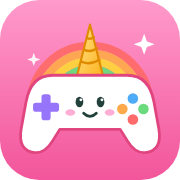
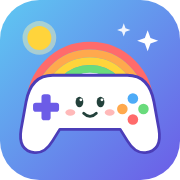
rebrand

diff --git a/styles.css b/styles.css
@@ -2,9 +2,9 @@
   :root{
     color-scheme: light;
     --sky:#CDEBF5;
-    --sky2:#F7DDEB;
+    --sky2:#FFF2D2;
     --hedge:#2E6E61;
-    --pink:#F2559B;
+    --accent:#6C5CE7;
     --gold:#FFC23D;
     --ink:#23413B;
     --card:#FFFFFF;
@@ -29,7 +29,7 @@
   .brand{
     font-family:"Chewy","Comic Sans MS",cursive;font-weight:400;
     font-size:clamp(44px,10vw,80px);line-height:1;margin:8px 0 0;
-    color:var(--pink);text-shadow:3px 3px 0 #fff;text-wrap:balance;
+    color:var(--accent);text-shadow:3px 3px 0 #fff;text-wrap:balance;
   }
   .tag{margin:0;font-size:clamp(16px,3.5vw,20px);font-weight:800;color:var(--muted)}
   main{display:flex;flex-direction:column;gap:18px}
@@ -42,7 +42,7 @@
     transition:transform .12s ease;
   }
   .filters a:hover{transform:translateY(-2px)}
-  .filters a[aria-current="page"]{background:var(--pink);color:#fff;box-shadow:0 6px 16px #F2559B55}
+  .filters a[aria-current="page"]{background:var(--accent);color:#fff;box-shadow:0 6px 16px #6C5CE755}
   .filters a:focus-visible{outline:3px solid var(--gold);outline-offset:2px}
   .filters .count{font-size:13px;background:#0000000F;border-radius:999px;padding:1px 8px}
   .filters a[aria-current="page"] .count{background:#FFFFFF33}
@@ -90,7 +90,7 @@
   .chip{font-size:12px;font-weight:800;letter-spacing:.04em;text-transform:uppercase;padding:4px 10px;border-radius:999px;background:#EAF7EC;color:var(--ink)}
   .controls{font-size:13px!important;font-weight:700}
   .play{
-    margin-top:auto;align-self:flex-start;background:var(--pink);color:#fff;font-weight:800;
+    margin-top:auto;align-self:flex-start;background:var(--accent);color:#fff;font-weight:800;
     font-size:18px;padding:10px 22px;border-radius:14px;
   }
   .soon{background:transparent;border:3px dashed #2E6E6155;box-shadow:none}
@@ -99,9 +99,9 @@
     position:absolute;right:18px;bottom:18px;z-index:2;
     display:inline-flex;align-items:center;gap:6px;min-height:44px;
     font:inherit;font-weight:800;font-size:16px;cursor:pointer;
-    color:var(--ink);background:#fff;border:3px solid #F2559B33;border-radius:14px;padding:6px 14px;
+    color:var(--ink);background:#fff;border:3px solid #6C5CE733;border-radius:14px;padding:6px 14px;
   }
-  .share:hover{background:#FDE2EC;border-color:#F2559B66}
+  .share:hover{background:#ECE9FD;border-color:#6C5CE766}
   .share:focus-visible{outline:4px solid var(--gold);outline-offset:2px}
   .share-menu{
     position:absolute;right:14px;bottom:72px;z-index:5;min-width:190px;
@@ -112,14 +112,14 @@
     font:inherit;font-weight:800;font-size:16px;color:var(--ink);text-decoration:none;text-align:left;
     background:none;border:0;border-radius:10px;padding:10px 12px;cursor:pointer;
   }
-  .share-menu a:hover,.share-menu button:hover,.share-menu a:focus-visible,.share-menu button:focus-visible{background:#FDE2EC;outline:none}
+  .share-menu a:hover,.share-menu button:hover,.share-menu a:focus-visible,.share-menu button:focus-visible{background:#ECE9FD;outline:none}
   .soon .art{filter:grayscale(.3);opacity:.7}
   footer{text-align:center;font-size:13px;color:var(--muted);display:flex;flex-direction:column;align-items:center;gap:10px;padding-bottom:env(safe-area-inset-bottom)}
   footer p{margin:0}
   footer .small{font-size:12px;opacity:.9;max-width:44ch;line-height:1.5}
-  footer a{color:var(--ink);font-weight:800;text-decoration:underline;text-decoration-color:#F2559B66;text-underline-offset:2px}
-  .foot-add{font:inherit;font-weight:800;font-size:15px;color:var(--ink);background:var(--card);border:3px solid #F2559B33;border-radius:999px;padding:10px 18px;cursor:pointer;min-height:44px}
-  .foot-add:hover{background:#FDE2EC}
+  footer a{color:var(--ink);font-weight:800;text-decoration:underline;text-decoration-color:#6C5CE766;text-underline-offset:2px}
+  .foot-add{font:inherit;font-weight:800;font-size:15px;color:var(--ink);background:var(--card);border:3px solid #6C5CE733;border-radius:999px;padding:10px 18px;cursor:pointer;min-height:44px}
+  .foot-add:hover{background:#ECE9FD}
   .foot-add[hidden]{display:none}
   /* one-off "add to home screen" pop-up */
   .add-sheet{
@@ -130,11 +130,11 @@
   }
   .add-sheet.show{transform:translate(-50%,0)}
   .add-sheet img{border-radius:14px}
-  .add-sheet b{font-family:"Chewy","Comic Sans MS",cursive;font-weight:400;font-size:26px;color:var(--pink);line-height:1}
+  .add-sheet b{font-family:"Chewy","Comic Sans MS",cursive;font-weight:400;font-size:26px;color:var(--accent);line-height:1}
   .add-sheet p{margin:0;font-size:15px;color:var(--muted)}
   .add-sheet ol{margin:4px 0 0;padding-left:22px;text-align:left;font-size:15px;display:flex;flex-direction:column;gap:6px}
   .add-sheet ol span{color:var(--muted);font-size:13px}
-  .add-sheet .add-ok{font:inherit;font-weight:800;font-size:17px;color:#fff;background:var(--pink);border:0;border-radius:14px;padding:10px 28px;margin-top:6px;cursor:pointer;min-height:44px}
+  .add-sheet .add-ok{font:inherit;font-weight:800;font-size:17px;color:#fff;background:var(--accent);border:0;border-radius:14px;padding:10px 28px;margin-top:6px;cursor:pointer;min-height:44px}
   .add-sheet .add-x{position:absolute;top:8px;right:10px;font:inherit;font-size:18px;background:none;border:0;color:var(--muted);cursor:pointer;width:40px;height:40px}
   @media (prefers-reduced-motion: reduce){.add-sheet{transition:none}}
   @media (prefers-reduced-motion: reduce){.card,.game,.art img,.filters a{transition:none}.card:hover{transform:none}.filters a:hover{transform:none}.game:hover,.game:hover .art img{transform:none}}
@@ -142,7 +142,7 @@
   .brand a:focus-visible{outline:3px solid var(--gold);outline-offset:4px;border-radius:8px}
   .crumbs{font-size:15px;font-weight:800;color:var(--muted)}
   .crumbs a{color:var(--ink);text-decoration:none;background:var(--card);padding:6px 12px;border-radius:999px;box-shadow:0 4px 12px #2E6E6118;display:inline-block}
-  .crumbs a:hover{background:#FDE2EC}
+  .crumbs a:hover{background:#ECE9FD}
   .crumbs a:focus-visible{outline:3px solid var(--gold);outline-offset:2px}
   .section-head h1{font-family:"Chewy","Comic Sans MS",cursive;font-weight:400;font-size:clamp(30px,6vw,40px);margin:0;line-height:1;color:var(--ink)}
   /* "For parents" page */
@@ -150,11 +150,11 @@
   .ticks{display:flex;flex-wrap:wrap;gap:8px}
   .ticks span{background:var(--card);border-radius:999px;padding:6px 14px;font-weight:800;font-size:15px;box-shadow:0 4px 12px #2E6E6118}
   .info-card{background:var(--card);border-radius:22px;padding:20px 22px;box-shadow:0 8px 24px #2E6E6122}
-  .info-card h2{font-family:"Chewy","Comic Sans MS",cursive;font-weight:400;font-size:clamp(24px,5vw,30px);margin:0 0 8px;line-height:1.1;color:var(--pink)}
+  .info-card h2{font-family:"Chewy","Comic Sans MS",cursive;font-weight:400;font-size:clamp(24px,5vw,30px);margin:0 0 8px;line-height:1.1;color:var(--accent)}
   .info-card p,.info-card li{font-size:16px;line-height:1.55;margin:0}
   .info-card p + p{margin-top:10px}
   .info-card ul{margin:0;padding-left:20px;display:flex;flex-direction:column;gap:8px}
-  .info-card a{color:var(--ink);font-weight:800;text-decoration:underline;text-decoration-color:#F2559B66;text-underline-offset:2px;overflow-wrap:anywhere}
+  .info-card a{color:var(--ink);font-weight:800;text-decoration:underline;text-decoration-color:#6C5CE766;text-underline-offset:2px;overflow-wrap:anywhere}
   .info-card .small-print{font-size:14px;color:var(--muted)}
   .back-games{margin:0;text-align:center}
   .back-games .play{display:inline-block;text-decoration:none}
@@ -179,7 +179,7 @@
   .wrap{max-width:1100px}
   .brandrow{display:flex;align-items:center;justify-content:center;gap:14px;margin-top:6px}
   .brandrow .brand{margin:0}
-  .logo{width:clamp(56px,9vw,84px);height:auto;border-radius:22%;box-shadow:0 8px 20px #F2559B40;animation:logo-bob 3.2s ease-in-out infinite}
+  .logo{width:clamp(56px,9vw,84px);height:auto;border-radius:22%;box-shadow:0 8px 20px #6C5CE740;animation:logo-bob 3.2s ease-in-out infinite}
   @keyframes logo-bob{0%,100%{transform:translateY(0) rotate(-3deg)}50%{transform:translateY(-4px) rotate(3deg)}}
   .promise{display:flex;flex-wrap:wrap;justify-content:center;gap:6px 8px;margin:4px 0 0}
   .promise span{background:#FFFFFFCC;border-radius:999px;padding:4px 12px;font-size:14px;font-weight:800;color:var(--ink)}
@@ -198,10 +198,10 @@
   .hero-badge{position:absolute;left:14px;top:14px;background:var(--gold);color:var(--ink);font-weight:800;font-size:15px;padding:6px 14px;border-radius:999px;box-shadow:0 4px 12px #0000001f;animation:badge-wiggle 2.6s ease-in-out infinite}
   @keyframes badge-wiggle{0%,86%,100%{transform:rotate(0)}90%{transform:rotate(-6deg)}95%{transform:rotate(5deg)}}
   .hero-text{padding:22px 26px;display:flex;flex-direction:column;gap:8px}
-  .hero-kicker{margin:0;font-size:13px;font-weight:800;letter-spacing:.06em;text-transform:uppercase;color:var(--pink)}
+  .hero-kicker{margin:0;font-size:13px;font-weight:800;letter-spacing:.06em;text-transform:uppercase;color:var(--accent)}
   .hero-text h2{font-family:"Chewy","Comic Sans MS",cursive;font-weight:400;font-size:clamp(28px,3.4vw,40px);line-height:1.05;margin:0;color:var(--ink)}
   .hero-blurb{margin:0;font-size:16px;color:var(--muted)}
-  .hero-play{margin-top:6px;font-size:20px;padding:12px 26px;box-shadow:0 6px 0 #C23A78}
+  .hero-play{margin-top:6px;font-size:20px;padding:12px 26px;box-shadow:0 6px 0 #4B3DB8}
   /* game tiles: 4 across on computers, short descriptions */
   .grid{grid-template-columns:repeat(auto-fill,minmax(230px,1fr))}
   .game h3{font-size:25px}
@@ -253,7 +253,7 @@
     .hero-link{position:relative}
     .hero-text{position:absolute;right:10px;bottom:10px;padding:0}
     .hero-text h2,.hero-blurb,.hero-kicker{position:absolute;width:1px;height:1px;overflow:hidden;clip:rect(0 0 0 0);white-space:nowrap}
-    .hero-play{font-size:17px;padding:9px 18px;box-shadow:0 4px 0 #C23A78,0 6px 16px #0000002e}
+    .hero-play{font-size:17px;padding:9px 18px;box-shadow:0 4px 0 #4B3DB8,0 6px 16px #0000002e}
     .section-head h2{font-size:28px}
     .section-head p{font-size:13px}
   }

diff --git a/site.js b/site.js
@@ -41,7 +41,7 @@ const GA_MEASUREMENT_ID = "G-EM2WKCXBEL";
   }
   if (!document.querySelector('link[rel="apple-touch-icon"]')) add({ rel: "apple-touch-icon", href: ROOT + "brand/icon-180.png" });
   if (!document.querySelector('link[rel="manifest"]')) add({ rel: "manifest", href: ROOT + "site.webmanifest" });
-  if (!document.querySelector('meta[name="theme-color"]')) add({ tag: "meta", name: "theme-color", content: "#F2559B" });
+  if (!document.querySelector('meta[name="theme-color"]')) add({ tag: "meta", name: "theme-color", content: "#6C5CE7" });
   // Opened from a phone's home screen, the site runs full screen with no browser bar
   add({ tag: "meta", name: "mobile-web-app-capable", content: "yes" });
   add({ tag: "meta", name: "apple-mobile-web-app-capable", content: "yes" });
@@ -70,9 +70,9 @@ window.LR = window.LR || {};
   const css = document.createElement("style");
   css.textContent =
     ".lr-share{font:inherit;font-weight:800;font-size:16px;line-height:1;display:inline-flex;align-items:center;justify-content:center;gap:8px;" +
-    "min-height:48px;padding:10px 20px;border-radius:14px;cursor:pointer;color:#23413B;background:#fff;border:3px solid #F2559B55;" +
-    "box-shadow:0 4px 0 #F2559B33;-webkit-tap-highlight-color:transparent}" +
-    ".lr-share:hover{background:#FDE2EC}.lr-share:active{transform:translateY(2px);box-shadow:0 2px 0 #F2559B33}" +
+    "min-height:48px;padding:10px 20px;border-radius:14px;cursor:pointer;color:#23413B;background:#fff;border:3px solid #6C5CE755;" +
+    "box-shadow:0 4px 0 #6C5CE733;-webkit-tap-highlight-color:transparent}" +
+    ".lr-share:hover{background:#ECE9FD}.lr-share:active{transform:translateY(2px);box-shadow:0 2px 0 #6C5CE733}" +
     ".lr-share:focus-visible{outline:3px solid #FFC23D;outline-offset:2px}.lr-share svg{flex:none}" +
     ".lr-share.done{background:#E9F9EC;border-color:#69DB7C}";
   (document.head || document.documentElement).appendChild(css);
@@ -148,10 +148,10 @@ window.LR = window.LR || {};
       font-family: "Nunito", system-ui, sans-serif; }
     .lr-rotate[hidden] { display: none; }
     .lr-rotate .lr-box { display: flex; flex-direction: column; align-items: center; gap: 14px; max-width: 320px; }
-    .lr-rotate .lr-phone { width: 64px; height: 104px; border: 6px solid #F2559B; border-radius: 16px; background: #fff;
+    .lr-rotate .lr-phone { width: 64px; height: 104px; border: 6px solid #6C5CE7; border-radius: 16px; background: #fff;
       animation: lr-turn 2.2s ease-in-out infinite; }
     .lr-rotate.lr-want-portrait .lr-phone { animation-name: lr-turn-back; }
-    .lr-rotate b { font-family: "Chewy", "Comic Sans MS", cursive; font-weight: 400; font-size: 32px; color: #F2559B; line-height: 1.05; }
+    .lr-rotate b { font-family: "Chewy", "Comic Sans MS", cursive; font-weight: 400; font-size: 32px; color: #6C5CE7; line-height: 1.05; }
     .lr-rotate p { margin: 0; font-size: 17px; font-weight: 700; }
     .lr-rotate button { font: inherit; font-weight: 800; font-size: 15px; background: transparent; color: #557A72;
       border: 3px dashed #2E6E6155; border-radius: 999px; padding: 8px 16px; cursor: pointer; }
@@ -272,11 +272,11 @@ window.LR = window.LR || {};
     "padding:max(16px,env(safe-area-inset-top)) 16px max(16px,env(safe-area-inset-bottom))}" +
     ".lr-about-card{position:relative;max-width:560px;margin:24px auto;background:#fff;border-radius:22px;padding:22px 24px 20px;color:#23413B;box-shadow:0 18px 40px #0005;" +
     "user-select:text;-webkit-user-select:text}" +
-    ".lr-about-card h2{font:400 26px/1.1 Chewy,'Comic Sans MS',cursive;margin:0 40px 10px 0;color:#F2559B}" +
+    ".lr-about-card h2{font:400 26px/1.1 Chewy,'Comic Sans MS',cursive;margin:0 40px 10px 0;color:#6C5CE7}" +
     ".lr-about-card p{margin:0 0 10px;font-size:15.5px;line-height:1.55;color:#3E5F58}" +
     ".lr-about-card a{color:#C2307A;font-weight:800}" +
-    ".lr-about-x{position:absolute;right:12px;top:12px;width:40px;height:40px;border-radius:50%;border:0;background:#FDE2EC;color:#23413B;font:800 18px/1 system-ui;cursor:pointer}" +
-    ".lr-about-ok{display:block;margin:14px auto 0;min-height:44px;padding:0 28px;border:0;border-radius:14px;background:#F2559B;color:#fff;font:800 17px/1 Nunito,system-ui,sans-serif;cursor:pointer}";
+    ".lr-about-x{position:absolute;right:12px;top:12px;width:40px;height:40px;border-radius:50%;border:0;background:#ECE9FD;color:#23413B;font:800 18px/1 system-ui;cursor:pointer}" +
+    ".lr-about-ok{display:block;margin:14px auto 0;min-height:44px;padding:0 28px;border:0;border-radius:14px;background:#6C5CE7;color:#fff;font:800 17px/1 Nunito,system-ui,sans-serif;cursor:pointer}";
   (document.head || document.documentElement).appendChild(css);
 
   function build() {

diff --git a/games-data.js b/games-data.js
@@ -14,17 +14,17 @@
 //   heading     big heading on its page
 //   about       one line shown under the heading
 const categories = [
-  { id: "unicorns", slug: "unicorn-games", title: "Unicorns",        heading: "Unicorn games",       emoji: "🦄", colour: "#FDE2EC", about: "Magical games with unicorns, rainbows and sparkles." },
-  { id: "sport",    slug: "sport-games",   title: "Sport",           heading: "Sport games",         emoji: "⚽", colour: "#D6F0C8", about: "Kick it, score it, win it." },
-  { id: "puzzles",  slug: "puzzle-games",  title: "Puzzles",         heading: "Puzzle games",        emoji: "🧩", colour: "#FFF1C9", about: "Think it through - jigsaws, matching, mazes and more." },
-  { id: "mazes",    slug: "maze-games",    title: "Mazes",           heading: "Maze games",          emoji: "🌀", colour: "#DDF5D2", about: "Find the way through - unicorn, digger, helicopter, jungle and Halloween mazes." },
-  { id: "flying",   slug: "flying-games",  title: "Flying",          heading: "Flying games",        emoji: "☁", colour: "#DDE3FF", about: "Up, up and away into the sky." },
-  { id: "animals",  slug: "animal-games",  title: "Animals",         heading: "Animal games",        emoji: "🐒", colour: "#FFE8C7", about: "Cheeky monkeys, bananas and jungle fun." },
-  { id: "action",   slug: "action-games",  title: "Action",          heading: "Action games",        emoji: "⚡", colour: "#FFE0DC", about: "Quick hands, fast fun - catch it, dodge it, zoom!" },
-  { id: "dinosaurs", slug: "dinosaur-games", title: "Dinosaurs",     heading: "Dinosaur games",      emoji: "🦖", colour: "#DDF3E4", about: "Stomp, roar and chomp with friendly dinosaurs." },
-  { id: "cars",     slug: "car-games",     title: "Cars",            heading: "Car games",           emoji: "🚗", colour: "#FFD9B8", about: "Zoom, beep and crunch - games with cars and trucks." },
+  { id: "animals",  slug: "animal-games",  title: "Animals",         heading: "Animal games",        emoji: "🐒", colour: "#FFE8C7", about: "Puppies, lemurs, dinosaurs and jungle friends to play with." },
   { id: "trains",   slug: "train-games",   title: "Trains",          heading: "Train games",         emoji: "🚂", colour: "#D6EEFF", about: "All aboard! Toot, chug and choo-choo." },
   { id: "diggers",  slug: "digger-games",  title: "Diggers",         heading: "Digger games",        emoji: "🚜", colour: "#FFE8A3", about: "Dig, scoop, tip and build with big friendly diggers and trucks." },
+  { id: "dinosaurs", slug: "dinosaur-games", title: "Dinosaurs",     heading: "Dinosaur games",      emoji: "🦖", colour: "#DDF3E4", about: "Stomp, roar and chomp with friendly dinosaurs." },
+  { id: "cars",     slug: "car-games",     title: "Cars",            heading: "Car games",           emoji: "🚗", colour: "#FFD9B8", about: "Zoom, beep and crunch - games with cars and trucks." },
+  { id: "flying",   slug: "flying-games",  title: "Flying",          heading: "Flying games",        emoji: "☁", colour: "#DDE3FF", about: "Up, up and away into the sky." },
+  { id: "mazes",    slug: "maze-games",    title: "Mazes",           heading: "Maze games",          emoji: "🌀", colour: "#DDF5D2", about: "Find the way through - unicorn, digger, helicopter, jungle and Halloween mazes." },
+  { id: "puzzles",  slug: "puzzle-games",  title: "Puzzles",         heading: "Puzzle games",        emoji: "🧩", colour: "#FFF1C9", about: "Think it through - jigsaws, matching, mazes and more." },
+  { id: "action",   slug: "action-games",  title: "Action",          heading: "Action games",        emoji: "⚡", colour: "#FFE0DC", about: "Quick hands, fast fun - catch it, dodge it, zoom!" },
+  { id: "sport",    slug: "sport-games",   title: "Sport",           heading: "Sport games",         emoji: "⚽", colour: "#D6F0C8", about: "Kick it, score it, win it." },
+  { id: "unicorns", slug: "unicorn-games", title: "Unicorns",        heading: "Unicorn games",       emoji: "🦄", colour: "#FDE2EC", about: "Magical games with unicorns, rainbows and sparkles." },
   { id: "halloween", slug: "halloween-games", title: "Halloween",     heading: "Halloween games",     emoji: "🎃", colour: "#FFE0C2", about: "Cosy, not-scary Halloween fun - pumpkins, trick-or-treating and friendly bats." },
 ];
 

diff --git a/index.html b/index.html
@@ -4,15 +4,15 @@
 <meta charset="utf-8">
 <meta name="viewport" content="width=device-width, initial-scale=1, viewport-fit=cover">
 <title>Lyla Rose Games - Free Games for Kids</title>
-<meta name="description" content="Free, simple browser games for kids - unicorn mazes, flying, penalty shoot-outs and more. No downloads, no sign-up. Works on tablets, phones and computers.">
+<meta name="description" content="Free, simple games for kids aged 2 to 6 - trains, diggers, dinosaurs, puppies, mazes and more. No ads, no downloads, no sign-up. Made by a dad for his little girl and boy.">
 <link rel="canonical" href="https://lylarosegames.com/">
-<meta name="theme-color" content="#F2559B">
+<meta name="theme-color" content="#6C5CE7">
 <!-- Share preview (Facebook, Messages, WhatsApp etc.) -->
 <meta property="og:type" content="website">
 <meta property="og:site_name" content="Lyla Rose Games">
 <meta property="og:locale" content="en_AU">
 <meta property="og:title" content="Lyla Rose Games - Free Games for Kids">
-<meta property="og:description" content="Free, simple browser games for kids - unicorn mazes, flying, penalty shoot-outs and more. No downloads, no sign-up. Works on tablets, phones and computers.">
+<meta property="og:description" content="Free, simple games for kids aged 2 to 6 - trains, diggers, dinosaurs, puppies, mazes and more. No ads, no downloads, no sign-up. Made by a dad for his little girl and boy.">
 <meta property="og:url" content="https://lylarosegames.com/">
 <meta property="og:image" content="https://lylarosegames.com/brand/og-image.jpg">
 <meta property="og:image:width" content="1200">
@@ -45,7 +45,7 @@
       <span style="background:#FF6B6B"></span><span style="background:#FFA94D"></span><span style="background:#FFD43B"></span><span style="background:#69DB7C"></span><span style="background:#4DABF7"></span><span style="background:#9775FA"></span>
     </div>
     <div class="brandrow"><img class="logo" src="brand/icon.svg" alt="" width="80" height="80"><h1 class="brand">Lyla Rose Games</h1></div>
-    <p class="tag">Free games for little kids - tap one and play!</p>
+    <p class="tag">Made by a dad for his little girl and boy - free games, tap one and play!</p>
     <p class="promise"><span>✅ No ads</span><span>✅ No sign-ups</span><span>✅ No downloads</span></p>
     <nav class="filters" id="filters" aria-label="Show games by type"></nav>
   </header>
@@ -59,7 +59,7 @@
     <section class="about-text" data-for="all" aria-label="About these games">
       <h2>About Lyla Rose Games</h2>
       <p>Lyla Rose Games is a collection of free online games for kids aged about 2 to 6. Every game runs straight in the browser on a phone, tablet or computer - there's nothing to download, no sign-up and no ads, so little ones can tap a picture and start playing.</p>
-      <p>The games were made by a dad for his daughter Lyla, and lots of them started as her ideas. You'll find unicorn games, <a href="maze-games/">maze games</a>, <a href="train-games/">train games</a>, <a href="digger-games/">digger games</a>, <a href="dinosaur-games/">dinosaur games</a>, not-scary <a href="halloween-games/">Halloween games</a>, helicopter rescues, jigsaws and memory games, starring a friendly cast of characters like Starlight the unicorn, Lenny the Lemur and Chomper the purple dinosaur.</p>
+      <p>The games are made by a dad for his little girl Lyla and her toddler brother, and lots of them started as their ideas. You'll find <a href="train-games/">train games</a>, <a href="digger-games/">digger games</a>, <a href="dinosaur-games/">dinosaur games</a>, <a href="animal-games/">animal games</a>, <a href="maze-games/">maze games</a>, <a href="unicorn-games/">unicorn games</a>, not-scary <a href="halloween-games/">Halloween games</a>, helicopter rescues, jigsaws and memory games, starring a friendly cast of characters like Chomper the purple dinosaur, Biscuit the puppy, Lenny the Lemur and Starlight the unicorn.</p>
       <p>Each game has an age badge (2+, 3+ or 4+) to help you pick, and the Age buttons at the top show one group at a time. Most games have no way to lose - just stars, stickers and happy celebrations. Find out more on the <a href="for-parents/">For parents</a> page.</p>
     </section>
   </main>

diff --git a/for-parents/index.html b/for-parents/index.html
@@ -7,7 +7,7 @@
 <title>For Parents - Safe, Free Kids Games with No Ads | Lyla Rose Games</title>
 <meta name="description" content="Lyla Rose Games is a small collection of free games for kids with no ads, no in-game purchases, no sign-ups and no chat. Here's how the games are made, what we do (and don't) collect, and how to get in touch.">
 <link rel="canonical" href="https://lylarosegames.com/for-parents/">
-<meta name="theme-color" content="#F2559B">
+<meta name="theme-color" content="#6C5CE7">
 <!-- Share preview (Facebook, Messages, WhatsApp etc.) -->
 <meta property="og:type" content="website">
 <meta property="og:site_name" content="Lyla Rose Games">
@@ -60,7 +60,7 @@
 
     <section class="info-card">
       <h2>What is Lyla Rose Games?</h2>
-      <p>It's a small collection of free games made by a dad for his daughter, Lyla. She comes up with most of the ideas (unicorns, cheeky lemurs, a purple dinosaur who drives a train) and tests every game before it goes up. Other kids are very welcome to play too.</p>
+      <p>It's a small collection of free games made by a dad for his two kids - Lyla and her little brother. They come up with most of the ideas (a purple dinosaur who drives a train, diggers, a puppy called Biscuit, cheeky lemurs, unicorns) and test every game before it goes up. Other kids are very welcome to play too.</p>
       <p>The games are simple and gentle: bright colours, silly sounds and no scary bits. Each one is quick to pick up, and new games are added regularly.</p>
       <p><b>Age badges:</b> every game shows a rough starting age - <b>2+</b> for toddlers (big buttons, nothing to lose), <b>3+</b> for a bit more steering, matching and finishing jobs, and <b>4+</b> for scores, timing and mazes. They're only a guide - every child is different, so let them try anything. The Age buttons on the home page show one group at a time.</p>
     </section>

diff --git a/maze-games/index.html b/maze-games/index.html
@@ -7,7 +7,7 @@
 <title>Maze Games for Kids - Free Online Mazes to Play | Lyla Rose Games</title>
 <meta name="description" content="Free maze games for kids. Gallop a unicorn through a hedge maze, dig through dirt walls with a digger, fly a rescue helicopter through a cloud maze, lead baby lemurs home through a jungle maze, or go trick-or-treating in a Halloween maze. No ads, no sign-up - plays on phones, tablets and computers.">
 <link rel="canonical" href="https://lylarosegames.com/maze-games/">
-<meta name="theme-color" content="#F2559B">
+<meta name="theme-color" content="#6C5CE7">
 <!-- Share preview (Facebook, Messages, WhatsApp etc.) -->
 <meta property="og:type" content="website">
 <meta property="og:site_name" content="Lyla Rose Games">

diff --git a/halloween-games/index.html b/halloween-games/index.html
@@ -7,7 +7,7 @@
 <title>Halloween Games for Kids - Free, Not-Scary Halloween Games Online | Lyla Rose Games</title>
 <meta name="description" content="Free Halloween games for kids aged about 2 to 6 - cosy, not scary. Go trick-or-treating through a little town maze, or give a pumpkin a silly face and light it up on Blossom's porch. No ads, no sign-up - plays on phones, tablets and computers.">
 <link rel="canonical" href="https://lylarosegames.com/halloween-games/">
-<meta name="theme-color" content="#F2559B">
+<meta name="theme-color" content="#6C5CE7">
 <!-- Share preview (Facebook, Messages, WhatsApp etc.) -->
 <meta property="og:type" content="website">
 <meta property="og:site_name" content="Lyla Rose Games">

diff --git a/digger-games/index.html b/digger-games/index.html
@@ -7,7 +7,7 @@
 <title>Digger Games for Kids - Free Diggers and Dump Trucks Fun | Lyla Rose Games</title>
 <meta name="description" content="Free digger games for kids - dig with Chomper&#x27;s big yellow digger, fill up the dump truck, find buried treasure and build a duck pond, a train tunnel and more. No downloads, no sign-up. Works on tablets, phones and computers.">
 <link rel="canonical" href="https://lylarosegames.com/digger-games/">
-<meta name="theme-color" content="#F2559B">
+<meta name="theme-color" content="#6C5CE7">
 <!-- Share preview (Facebook, Messages, WhatsApp etc.) -->
 <meta property="og:type" content="website">
 <meta property="og:site_name" content="Lyla Rose Games">

diff --git a/puzzle-games/index.html b/puzzle-games/index.html
@@ -7,7 +7,7 @@
 <title>Puzzle Games for Kids - Free Jigsaws, Memory Games and More | Lyla Rose Games</title>
 <meta name="description" content="Free puzzle games for kids. Put together jigsaw pictures, match the memory cards, switch the train tracks and find the way through mazes. No ads, no sign-up - works on phones, tablets and computers.">
 <link rel="canonical" href="https://lylarosegames.com/puzzle-games/">
-<meta name="theme-color" content="#F2559B">
+<meta name="theme-color" content="#6C5CE7">
 <!-- Share preview (Facebook, Messages, WhatsApp etc.) -->
 <meta property="og:type" content="website">
 <meta property="og:site_name" content="Lyla Rose Games">

diff --git a/train-games/index.html b/train-games/index.html
@@ -7,7 +7,7 @@
 <title>Train Games for Kids - Free Choo-Choo Fun | Lyla Rose Games</title>
 <meta name="description" content="Free train games for kids - drive Chomper&#x27;s colourful steam train, stop at the station to pick up friends and toot the cows off the track. No downloads, no sign-up. Works on tablets, phones and computers.">
 <link rel="canonical" href="https://lylarosegames.com/train-games/">
-<meta name="theme-color" content="#F2559B">
+<meta name="theme-color" content="#6C5CE7">
 <!-- Share preview (Facebook, Messages, WhatsApp etc.) -->
 <meta property="og:type" content="website">
 <meta property="og:site_name" content="Lyla Rose Games">

diff --git a/action-games/index.html b/action-games/index.html
@@ -7,7 +7,7 @@
 <title>Action Games for Kids - Free to Play Online | Lyla Rose Games</title>
 <meta name="description" content="Free action games for kids - catch, dodge, fly and zoom with Lenny the Lemur, a glittery unicorn and more. Quick fun rounds, no downloads, no sign-up. Works on tablets, phones and computers.">
 <link rel="canonical" href="https://lylarosegames.com/action-games/">
-<meta name="theme-color" content="#F2559B">
+<meta name="theme-color" content="#6C5CE7">
 <!-- Share preview (Facebook, Messages, WhatsApp etc.) -->
 <meta property="og:type" content="website">
 <meta property="og:site_name" content="Lyla Rose Games">

diff --git a/dinosaur-games/index.html b/dinosaur-games/index.html
@@ -7,7 +7,7 @@
 <title>Dinosaur Games for Kids - Free Dino Fun | Lyla Rose Games</title>
 <meta name="description" content="Free dinosaur games for kids. Stomp around as Chomper the friendly purple dinosaur and crunch cars into bouncing bits. No downloads, no sign-up - plays on tablets, phones and computers.">
 <link rel="canonical" href="https://lylarosegames.com/dinosaur-games/">
-<meta name="theme-color" content="#F2559B">
+<meta name="theme-color" content="#6C5CE7">
 <!-- Share preview (Facebook, Messages, WhatsApp etc.) -->
 <meta property="og:type" content="website">
 <meta property="og:site_name" content="Lyla Rose Games">
